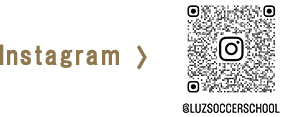
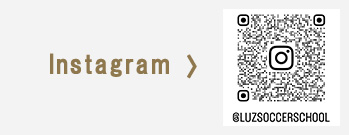
2025/2/10

Changed region(s): [[0.6207, 0.0256, 0.9621, 0.7949], [0.0, 0.359, 0.5897, 0.5897], [0.6207, 0.8205, 0.9621, 0.9744]]

diff --git a/src/index.html b/src/index.html
@@ -22,7 +22,7 @@
       </div>
       <div id="icons">
         <img id="tel" src="images/common/tel.jpg" alt="電話の画像">
-        <a href="#">
+        <a href="https://www.instagram.com/luzsoccerschool?igsh=MW5qcmZwMDF1d2tiYw%3D%3D&utm_source=qr">
           <img id="header-icon-instagram" src="images/common/インスタグラムのシンプルなロゴのアイコン 2.png" alt="instagramのアイコン画像">
         </a>
         <a href="#">
@@ -45,28 +45,105 @@
    </header>
   <main>
     <!-- スクール紹介 -->
-    <div id="school">
-      <div class="title">
+    <section id="top-school">
+      <div class="top-title">
         <h1>スクール紹介</h1>
-        <img class="title_underline" src="images/common/line_short_white.jpg" alt="スクール紹介のテキスト画像">
-      </div>
-      <div id="school-introduction">
-        <img src="images/home/play_image.jpg" alt="サッカーをしている様子の画像">
-        <div>
-          <p>Luz(ルース)とはスペイン語で、「光・輝く」の意味。サッカーの楽しさはもちろん、選手自らが考えてプレーすることを大切にし、Jリーグクラブでの10年以上の指導経験を生かして、個人の能力を最大限に引き出す指導を目指します。サッカーを通して技術指導だけではなく、子供たちの自立心、協調性、マナー、コミュニケーション能力等の、人間性も併せて育成をします。</p>
-          <p>Instagramにスクールの様子を載せています。<br>ぜひ一度ご覧ください！</p>
-          <img src="images/common/footer_instagram.jpg" alt="instagramのリンク画像">
-        </div>
+        <img class="title_underline" src="images/common/line_short_white.jpg" alt="タイトル">
       </div>
       <div>
-        <div>
-          <h2>スケージュール</h2>
-        </div>
-        <div>
-          <h2>練習場所</h2>
+        <div id="top-introduction">
+          <img src="images/home/play_image.jpg" alt="サッカーをしている様子の画像">
+          <div>
+            <p>Luz(ルース)とはスペイン語で「光・輝く」の意味。<br>サッカーの楽しさはもちろん、選手自らが考えてプレーすることを大切にし、Jリーグクラブでの10年以上の指導経験を生かして個人の能力を最大限に引き出す指導を目指します。<br>サッカーを通して技術指導だけではなく、子供たちの自立心、協調性、マナー、コミュニケーション能力等の人間性も併せて育成します。</p>
+            <div id="top-instagram-guidance">
+              <p>Instagramにスクールの様子を載せています。<br>ぜひ一度ご覧ください！</p>
+              <a href="https://www.instagram.com/luzsoccerschool?igsh=MW5qcmZwMDF1d2tiYw%3D%3D&utm_source=qr">
+                <img src="images/common/footer_instagram.jpg" alt="instagramのリンク画像">
+              </a>
+            </div>
+          </div>
         </div>
       </div>
-    </div>
+      <div id="top-detail">
+        <div id="top-schedule-venue">
+          <div id="top-schedule">
+            <h2>スケージュール</h2>
+            <div class="top-schedule-contents">
+              <div>
+                <img class="top-detail-img" src="images/home/uzura.png" alt="鶉校">
+                <table id="schedule-table1">
+                  <tr>
+                    <th class="top-week">月曜日/<br>&nbsp;&nbsp;&nbsp;&nbsp;木曜日</th>
+                    <td class="top-cell">エンジョイクラス
+                      <br>【１～３年生】１８：００～１９：００
+                      <br>強化クラス
+                      <br>【４～６年生】１９：１５～２０：４５
+                    </td>
+                  </tr>
+                  <tr>
+                    <th class="top-week">水曜日/<br>&nbsp;&nbsp;&nbsp;&nbsp;金曜日</th>
+                    <td class="top-cell">特化型クラス
+                      <br>【３～６年生】１９：００～２０：３０
+                    </td>
+                  </tr>
+                  <tr>
+                    <th class="top-week">金曜日</th>
+                    <td class="top-cell">キッズクラス
+                      <br>【年長】１８：００～１８：５０
+                    </td>
+                  </tr>
+                </table>
+              </div>
+              <div>
+                <img class="top-detail-img" src="images/home/gujo.png" alt="郡上校">
+                <table id="schedule-table2">
+                  <tr>
+                    <th class="top-week">第１月曜日/<br>&nbsp;&nbsp;&nbsp;&nbsp;第４金曜日</th>
+                    <td class="top-cell">特別クラス
+                      <br>【３～６年生】１９：００～２０：３０
+                    </td>
+                  </tr>
+                </table>
+              </div>
+            </div>
+          </div>
+          <div id="top-venue">
+            <h2>練習場所</h2>
+            <div class="top-schedule-contens">
+              <div>
+                <img class="top-detail-img" src="images/home/uzura.png" alt="鶉校">
+                <p>WHISTLE SECOND COURT</p>
+              </div>
+              <div>
+                <img class="top-detail-img" src="images/home/gujo.png" alt="郡上校">
+                <p>美並まん真ん中グラウンド</p>
+              </div>
+            </div>
+          </div>
+        </div>
+        <div class="button">
+          <a href="#">
+            <img src="images/home/button.png" alt="もっと見る">
+          </a>
+        </div>
+      </div>
+    </section>
+    <!-- 入会募集 -->
+     <section>
+      <div class="top-title">
+        <h1>新メンバー随時募集中です!</h1>
+        <img class="title_underline" src="images/common/line_long.png" alt="タイトル">
+      </div>
+      <img src="images/home/recruitment_image.jpg" alt="生徒たちの画像">
+      <div>
+        <p>Luz soccer school（ルース）では、本気でサッカーを楽しみたい。本気でサッカーが上手くなりたい。そんなスクール生を募集しています。
+          2024年4月から鶉校がスタートし現在50名のスクール生が在籍しています。
+          2025年から郡上校も開校となりました。1人でも多くの選手にサッカーの楽しさを伝え、個人のレベルアップを約束します。また無料体験も随時受付しています。
+        </p>
+      </div>
+     </section>
   </main>
+  <!-- フッター -->
+  <footer></footer>
 </body>
 </html>

diff --git a/src/css/style.css b/src/css/style.css
@@ -2,6 +2,7 @@
 /* 全体の編集 */
 body {
   max-width: 1400px;
+  margin: 0 auto 0 auto;
   background-color: #f3f3f3;
   font-family: "Noto Sans JP", serif;
 }
@@ -78,7 +79,105 @@ h1 {
   width: 100%;
 }
 
-/* スクール紹介 */
-.title {
+/* もっと見るボタンの設定 */
+.button {
   text-align: center;
+  margin-top: 30px;
+}
+.button img {
+  width: 200px;
+}
+
+/* スクール紹介 */
+.top-title {
+  text-align: center;
+  margin-top: 70px;
+  margin-bottom: 60px;
+}
+
+#top-introduction {
+  display: flex;
+  margin-left: 10%;
+  margin-right: 10%;
+}
+#top-introduction img {
+  width: 300px;
+  -o-object-fit: cover;
+     object-fit: cover;
+}
+#top-introduction p {
+  margin-left: 7%;
+}
+
+#top-instagram-guidance {
+  margin-top: 5%;
+}
+#top-instagram-guidance p {
+  font-weight: bold;
+  margin-right: 5%;
+}
+#top-instagram-guidance a {
+  margin-left: 50%;
+}
+
+.top-detail-img {
+  width: 100px;
+}
+
+#top-detail {
+  margin-top: 50px;
+  width: 100%;
+  height: 700px;
+  background-image: url(../images/home/introduction_background.jpg);
+  background-size: auto;
+  color: #ffffff;
+  position: relative;
+}
+
+#top-schedule-venue {
+  display: flex;
+  justify-content: space-around;
+  padding-top: 50px;
+}
+#top-schedule-venue #top-schedule {
+  margin-left: 3%;
+}
+#top-schedule-venue #top-schedule div {
+  margin-top: 20px;
+}
+
+#top-schedule > h2::after,
+#top-venue > h2::after {
+  content: url("../images/home/line.png");
+  display: inline-block;
+  transform: scale(0.7);
+}
+
+.top-schedule-contents {
+  padding-left: 10%;
+}
+
+#schedule-table1,
+#schedule-table2 {
+  white-space: nowrap;
+  padding: 10px 0px 20px 20px;
+}
+
+.top-week {
+  padding-right: 20px;
+  font-weight: normal;
+}
+
+.top-cell {
+  padding: 10px 0;
+}
+
+#top-venue {
+  margin-right: 7%;
+}
+#top-venue div {
+  margin-top: 20px;
+}
+#top-venue div p {
+  padding: 20px 20px 20px 20px;
 }/*# sourceMappingURL=style.css.map */

diff --git a/src/css/style.scss b/src/css/style.scss
@@ -1,6 +1,7 @@
 /* 全体の編集 */
 body {
   max-width: 1400px;
+  margin: 0 auto 0 auto;  
   background-color: #f3f3f3;
   font-family: "Noto Sans JP", serif;
 }
@@ -71,7 +72,96 @@ $font-size-main: 10px;
   width: 100%;
 }
 
-/* スクール紹介 */
-.title {
+/* もっと見るボタンの設定 */
+.button {
   text-align: center;
+  margin-top: 30px;
+  // position: absolute;
+  // bottom: 50px;
+  // left: 45%;
+  img {
+    width: 200px;
+  }
+}
+
+/* スクール紹介 */
+.top-title {
+  text-align: center;
+  margin-top: 70px;
+  margin-bottom: 60px;
+}
+#top-introduction {
+  display: flex;
+  margin-left: 10%;
+  margin-right: 10%;
+  img {
+    width: 300px;
+    object-fit: cover
+  }
+  p {
+    margin-left: 7%;
+  }
+}
+#top-instagram-guidance {
+  margin-top: 5%;
+  p {
+    font-weight: bold;
+    margin-right: 5%;
+  }
+  a {
+    margin-left: 50%;
+  }
+}
+.top-detail-img {
+  width: 100px;
+}
+#top-detail {
+  margin-top: 50px;
+  width: 100%;
+  height: 700px;
+  background-image: url(../images/home/introduction_background.jpg);
+  background-size: auto;
+  color: #ffffff;
+  position: relative;
+}
+#top-schedule-venue {
+  display: flex;
+  justify-content: space-around;
+  padding-top: 50px;
+  #top-schedule {
+    margin-left: 3%;
+    div {
+      margin-top: 20px;
+    }
+  }
+}
+#top-schedule > h2::after,
+#top-venue > h2::after {
+  content: url("../images/home/line.png");
+  display: inline-block;
+  transform: scale(0.7);
+}
+.top-schedule-contents {
+  padding-left: 10%;
+}
+#schedule-table1,
+#schedule-table2 {
+  white-space: nowrap;
+  padding: 10px 0px 20px 20px;
+}
+.top-week {
+  padding-right: 20px;
+  font-weight: normal;
+}
+.top-cell {
+  padding: 10px 0;
+}
+#top-venue {
+  margin-right: 7%;  
+  div {
+    margin-top: 20px;
+    p {
+      padding: 20px 20px 20px 20px;
+    }
+  }
 }
